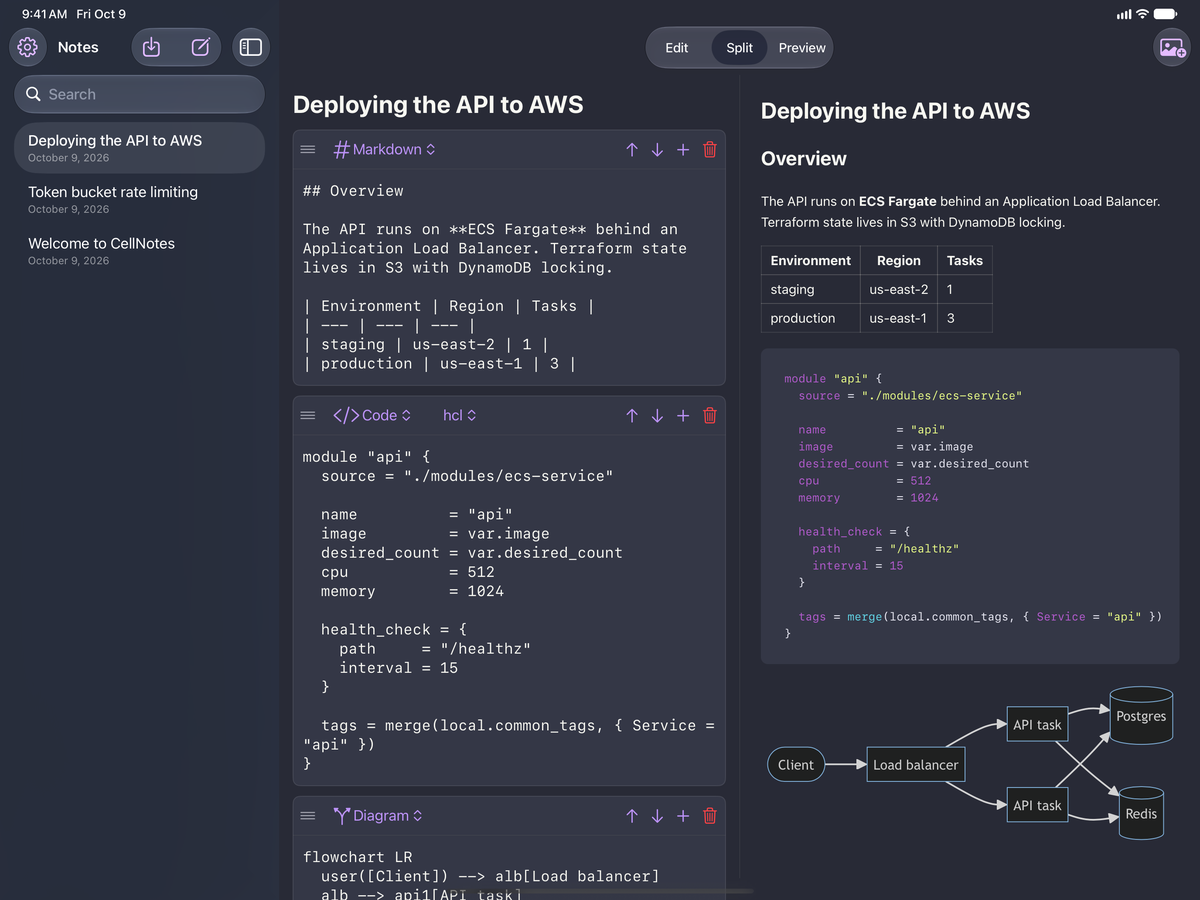
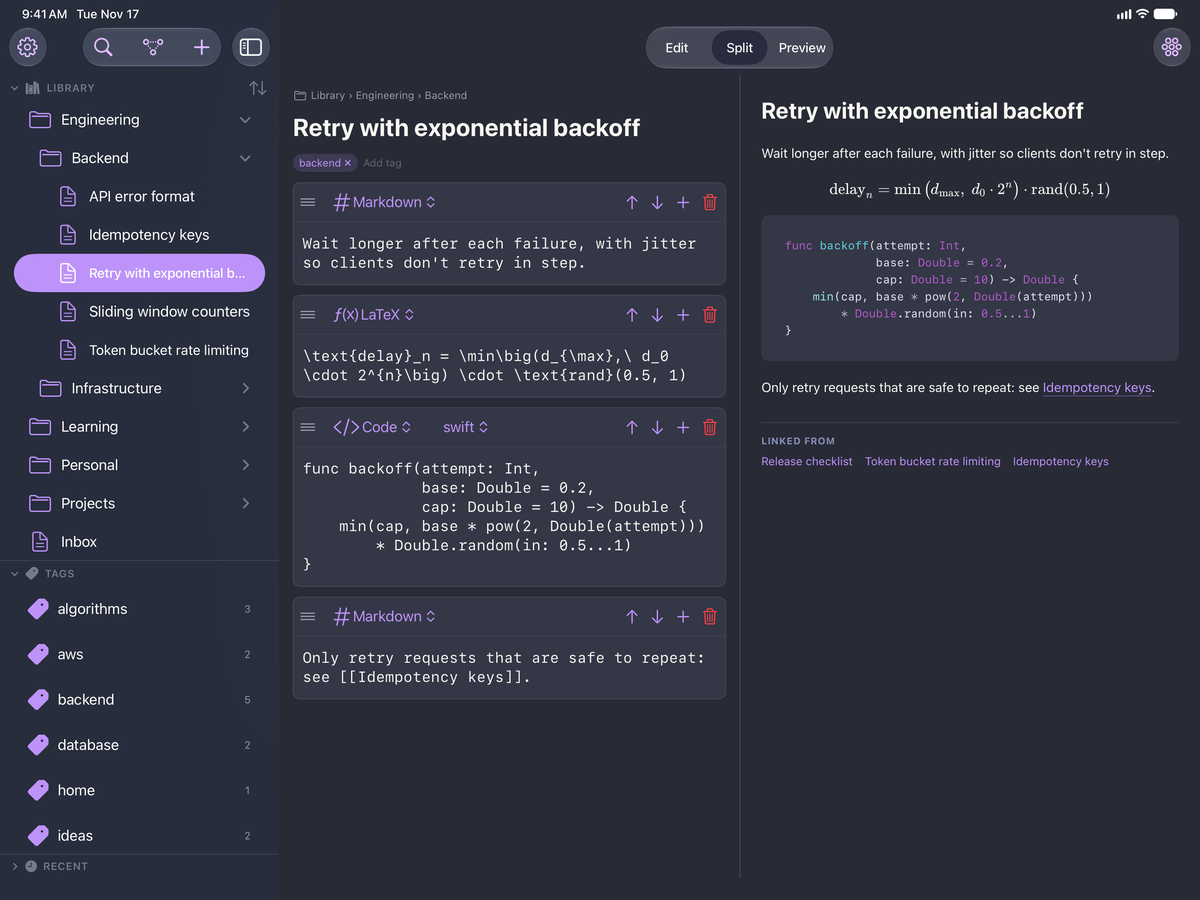
feat: update site and README for 1.3
Link notes, graph, image search, assistants and Shortcuts sections. New screenshots, App Store download button.

diff --git a/site/index.html b/site/index.html
@@ -4,7 +4,7 @@
   <meta charset="utf-8">
   <meta name="viewport" content="width=device-width, initial-scale=1">
   <title>CellNotes: notes made of cells</title>
-  <meta name="description" content="CellNotes is a note app for Mac, iPhone and iPad where every note is a stack of cells: Markdown, code, LaTeX math, diagrams, images and checklists.">
+  <meta name="description" content="CellNotes is a note app for Mac, iPhone and iPad where every note is a stack of cells: Markdown, code, LaTeX math, diagrams, images and checklists. Link notes, search inside images, organize with folders and tags, and let Claude read and write your notes.">
   <link rel="icon" href="icon.png">
   <link rel="apple-touch-icon" href="icon.png">
   <link rel="stylesheet" href="style.css">
@@ -15,14 +15,15 @@
     <img src="icon.png" alt="CellNotes icon">
     <h1>CellNotes</h1>
     <p>Notes made of cells, for Mac, iPhone and iPad.</p>
+    <p class="req">Requires macOS 15 or later, or iOS 17 or later.</p>
     <div class="buttons">
-      <span class="button secondary">Coming soon to the App Store</span>
-      <a class="button" href="https://github.com/stephenwolfe1/cellnotes/issues">Feedback</a>
+      <a class="button" href="https://apps.apple.com/us/app/cellnotes-app/id6820747798">Download on the App Store</a>
+      <a class="button secondary" href="https://github.com/stephenwolfe1/cellnotes/issues">Feedback</a>
     </div>
   </header>
 
   <figure class="shot">
-    <img src="screenshots/mac.webp" width="1600" height="1000" alt="CellNotes on a Mac in Split view: Markdown, Terraform code and a diagram on the left, rendered on the right">
+    <img src="screenshots/mac-cells.webp" width="1600" height="1000" alt="CellNotes on a Mac in Split view: a Markdown cell, LaTeX equation, sequence diagram and Swift code on the left, rendered on the right, with a folder tree in the sidebar">
   </figure>
 
   <p>Every note in CellNotes is a stack of cells, and each cell has its own type. Write a paragraph in Markdown, add a snippet of code, follow it with an equation and a diagram, and each part is edited and displayed the way it should be.</p>
@@ -37,18 +38,76 @@
     <div class="card"><h3>Checklists</h3><p>Tick items off in the editor or the preview.</p></div>
   </div>
 
+  <h2>Link your notes</h2>
+  <p>Type <code>[[</code> in any cell and pick a note to link to it. Every note shows what links back to it under <em>Linked from</em>, so related ideas stay one click apart.</p>
+  <figure class="shot">
+    <img src="screenshots/mac-links.webp" width="1600" height="1000" loading="lazy" alt="Typing [[ in a CellNotes cell opens a list of notes to link to, with a small graph of the note's neighbors on the right">
+  </figure>
+  <p>The graph view draws your whole library as a map of notes, links and tags. Open it from the toolbar on any device, or view just the neighborhood around the note you are reading.</p>
+  <figure class="shot">
+    <img src="screenshots/mac-graph.webp" width="1600" height="1000" loading="lazy" alt="CellNotes graph window showing notes as colored dots connected by links">
+  </figure>
+
+  <h2>Find anything</h2>
+  <p>Press &#8984;F to jump to any note or folder, or type <code>#tag</code> to filter by tag. On the Mac, CellNotes also reads the text in your images, so a screenshot of an error message or a photo of a whiteboard turns up in search. It happens on your Mac with Apple's Vision framework, nothing is uploaded, and a setting turns it off. Your notes also appear in Spotlight and Siri.</p>
+  <figure class="shot">
+    <img src="screenshots/mac-image-search.webp" width="1600" height="1000" loading="lazy" alt="Searching CellNotes for a word that appears only inside a screenshot finds the note that contains it">
+  </figure>
+
+  <h2>Organize your way</h2>
+  <div class="grid">
+    <div class="card"><h3>Folders</h3><p>Real folders you can nest, drag notes into, and see in Finder and Files.</p></div>
+    <div class="card"><h3>Tags</h3><p>Label notes across folders, with colors, counts and a click to filter.</p></div>
+    <div class="card"><h3>Your order</h3><p>Sort by name or date, or drag notes and folders into the order you want.</p></div>
+    <div class="card"><h3>Sidebar sections</h3><p>Library, Tags and Recent, each collapsible and reorderable.</p></div>
+    <div class="card"><h3>Graph view</h3><p>See how notes, links and tags connect.</p></div>
+    <div class="card"><h3>Quiver import</h3><p>Bring in a Quiver library, with notebooks as folders and tags kept.</p></div>
+  </div>
+
+  <h2>Built for writing</h2>
+  <div class="grid">
+    <div class="card"><h3>Resizable Split view</h3><p>Drag the divider between editor and preview. On narrow screens they stack.</p></div>
+    <div class="card"><h3>Multiple cursors</h3><p>Option-click, &#8984;D and column selection in text cells on the Mac.</p></div>
+    <div class="card"><h3>Duplicate cells</h3><p>Copy any cell or a whole note in one click.</p></div>
+    <div class="card"><h3>Smart checklists</h3><p>Arrow keys move between items, and selections span items.</p></div>
+    <div class="card"><h3>Move between cells</h3><p>&#8984;&#8593; and &#8984;&#8595; step through cells, and pasted images become image cells.</p></div>
+    <div class="card"><h3>Large libraries</h3><p>Big custom library folders open quickly and stay responsive.</p></div>
+  </div>
+
+  <h2>Works with Claude and other AI assistants</h2>
+  <p class="badge">Mac only</p>
+  <p>CellNotes includes a built-in MCP server, so Claude and other assistants can work with your notes. Ask Claude what changed after an incident, which notes mention a topic, or to add a cell to today's note.</p>
+  <figure class="shot">
+    <img src="screenshots/mac-assistant.webp" width="1600" height="1000" loading="lazy" alt="Claude answering a question about a Redis incident by reading the matching note in CellNotes, shown next to the note">
+  </figure>
+  <ul class="next">
+    <li><strong>Lean by design:</strong> assistants start with a library overview and note outlines, read only the cells they need, make small edits to a single cell, and ask what changed since they last looked.</li>
+    <li><strong>Finds notes by meaning:</strong> semantic search runs on your Mac, so an assistant can find the right note without reading your whole library.</li>
+    <li><strong>Understands your links:</strong> assistants can follow links and backlinks, see related notes and read the graph.</li>
+    <li><strong>Writes summaries:</strong> an assistant can add a short summary to a note, which shows under the note's title in Spotlight.</li>
+    <li><strong>Folders, tags and checklists:</strong> list, search, read, create and edit notes, folders and tags, and tick checklist items.</li>
+  </ul>
+  <p>Install it in Claude from Settings &gt; Assistants. There is nothing else to download, and a switch turns it off whenever you like. The helper is sandboxed and talks only to the CellNotes app, never to your files directly, and CellNotes opens quietly in the background when an assistant needs it.</p>
+
+  <h2>Shortcuts and Siri</h2>
+  <p>CellNotes adds actions to the Shortcuts app on Mac, iPhone and iPad. Create notes, find them and append to them from your own shortcuts, or ask Siri.</p>
+
   <h2>On your Mac, iPhone and iPad</h2>
-  <p>The same notes on every device, with an editor and preview made for each screen.</p>
+  <p>The same notes on every device, with an editor and preview made for each screen. CellNotes also fits the iPhone Duo and narrow iPad windows.</p>
   <div class="devices">
-    <img class="phone" src="screenshots/iphone.webp" width="600" height="1304" loading="lazy" alt="CellNotes on iPhone, previewing a note with a table, code and a diagram">
-    <img class="tablet" src="screenshots/ipad.webp" width="1200" height="900" loading="lazy" alt="CellNotes on iPad in Split view">
+    <img class="phone" src="screenshots/iphone-preview.webp" width="600" height="1304" loading="lazy" alt="CellNotes on iPhone, previewing a note with an equation, a sequence diagram and code">
+    <img class="tablet" src="screenshots/ipad-split.webp" width="1200" height="900" loading="lazy" alt="CellNotes on iPad in Split view, with folders and tags in the sidebar and a note with linked notes below">
+  </div>
+  <div class="devices">
+    <img class="phone" src="screenshots/iphone-graph.webp" width="600" height="1304" loading="lazy" alt="The CellNotes graph on iPhone">
+    <img class="tablet" src="screenshots/ipad-links.webp" width="1200" height="900" loading="lazy" alt="CellNotes on iPad previewing a note with a link, a table, code and a diagram, with a small graph of linked notes on the right">
   </div>
 
   <h2>Your notes are your files</h2>
   <p>Notes are saved as plain files in a CellNotes folder in your iCloud Drive, so they sync across your devices and you can browse, back up or search them like any other files. Nothing is locked inside the app.</p>
 
   <h2>Private by design</h2>
-  <p>No account, no tracking, no ads. CellNotes collects no data. Read the <a href="privacy">privacy policy</a>.</p>
+  <p>No account, no tracking, no ads. CellNotes collects no data, and the assistant server stays on your Mac. Read the <a href="privacy">privacy policy</a>.</p>
 </main>
 <footer>
   &copy; 2026 Stephen Wolfe &middot; <a href="privacy">Privacy</a> &middot; <a href="https://github.com/stephenwolfe1/cellnotes/issues">Support</a>

diff --git a/site/style.css b/site/style.css
@@ -30,6 +30,7 @@ header.hero { text-align: center; margin-bottom: 48px; }
 header.hero img { width: 128px; height: 128px; }
 header.hero h1 { font-size: 40px; margin: 12px 0 4px; letter-spacing: -0.02em; }
 header.hero p { color: var(--muted); font-size: 20px; margin: 0; }
+header.hero p.req { font-size: 14px; margin-top: 8px; }
 .buttons { margin-top: 24px; display: flex; gap: 12px; justify-content: center; flex-wrap: wrap; }
 .button {
   display: inline-block; padding: 10px 20px; border-radius: 10px;
@@ -57,3 +58,12 @@ footer a { color: inherit; }
   .devices .phone { flex: none; width: 62%; }
   .devices .tablet { flex: none; width: 100%; }
 }
+
+.badge { display: inline-block; background: var(--card); border: 1px solid var(--line); color: var(--muted); border-radius: 999px; padding: 2px 12px; font-size: 14px; margin: 0 0 8px; }
+h3 { margin-top: 28px; }
+ul.next { padding-left: 20px; color: var(--muted); }
+ul.next strong { color: var(--fg); }
+
+code { background: var(--card); border: 1px solid var(--line); border-radius: 6px; padding: 1px 6px; font-size: 0.9em; }
+.shot + p, p + .shot { margin-top: 24px; }
+.devices + .devices { margin-top: 16px; }

diff --git a/README.md b/README.md
@@ -31,6 +31,14 @@ familiar.
   - Images, pasted straight from the clipboard
   - Checklists
   - Optional extras you can switch on: tables, callouts, links and file attachments
+- **Folders, tags and a graph view**: nest notes in real folders, label them across folders, and see how
+  notes, links and tags connect
+- **Links between notes**: type `[[` to link a note; each note lists what links back to it
+- **Search that reaches into images** (Mac): text in screenshots and photos is searchable, read on your
+  Mac and never uploaded. Notes also show up in Spotlight and Siri
+- **Shortcuts and Siri actions** on Mac, iPhone and iPad
+- **Works with Claude and other AI assistants** (Mac): a built-in, sandboxed MCP server. Assistants get
+  library overviews and outlines, semantic search, links and graph, small edits and summaries
 - **Edit, Split and Preview modes**: write on one side, see the rendered note on the other
 - **Syncs with iCloud Drive** across your Mac, iPhone and iPad
 - **Your notes are plain files**: JSON and ordinary image files in a folder you can see in Finder and
@@ -49,8 +57,7 @@ familiar.
 
 | Platform | |
 | --- | --- |
-| macOS 14 or later | Download the latest `.dmg` from [Releases](../../releases) |
-| iPhone and iPad (iOS 17 or later) | Coming later |
+| Mac (macOS 15 or later), iPhone and iPad (iOS 17 or later) | [Download on the App Store](https://apps.apple.com/us/app/cellnotes-app/id6820747798) |
 
 ## Using CellNotes
 
